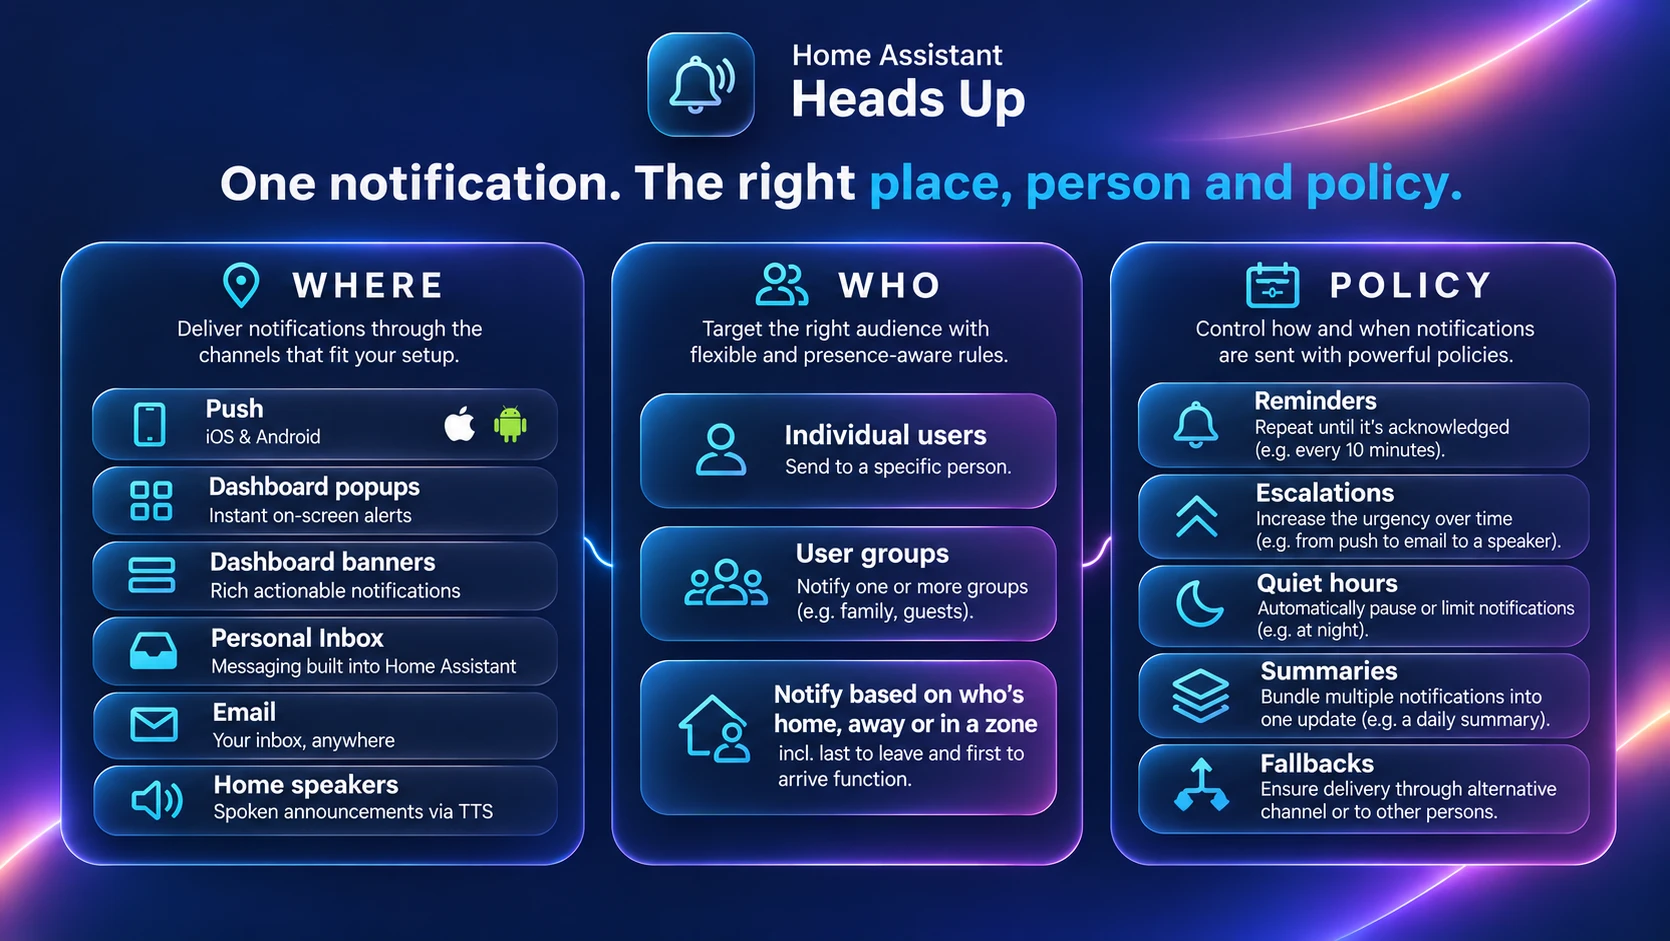
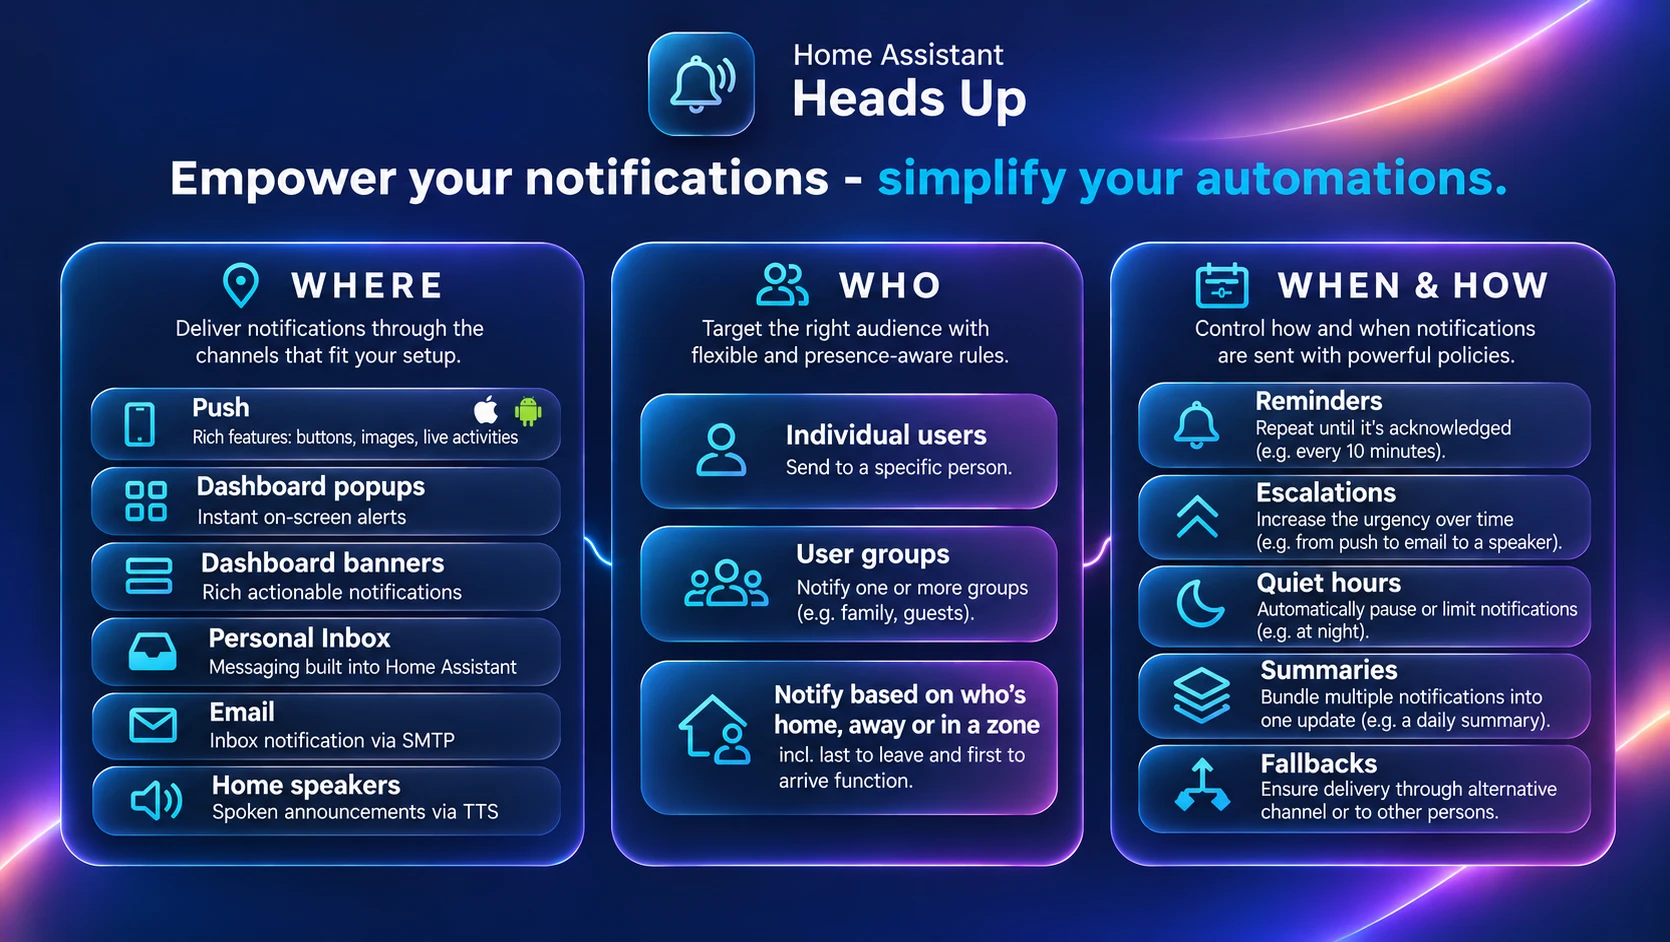
README: new summary picture, channel pictures 10% larger (220 px)

diff --git a/README.md b/README.md
@@ -18,14 +18,14 @@ Heads Up is the notification hub for Home Assistant. Your automation makes one c
 9. **Messages between people.** People write short messages to each other from the inbox card. The recipient's profile and your policies still decide what is delivered, and the sender never learns whether a message was read.
 
 <p align="center">
-<img src="https://raw.githubusercontent.com/Seyphaton/ha-heads-up/main/docs/images/channel-banner.webp" width="200" alt="Banners on a Home Assistant dashboard: a water leak with an Acknowledge link, a garage door warning, a vacuum with a progress bar and an update message, each with a close button">
-<img src="https://raw.githubusercontent.com/Seyphaton/ha-heads-up/main/docs/images/channel-popup.webp" width="200" alt="A Heads Up popup over a Home Assistant dashboard: a warning for Front door, Person detected at 14:32, with a camera picture and the buttons Lights on, Sound alarm and Dismiss">
-<img src="https://raw.githubusercontent.com/Seyphaton/ha-heads-up/main/docs/images/channel-push.webp" width="200" alt="Push on iOS and Android: an iPhone notification for Front door with a camera picture and the buttons Lights on, Sound alarm and Ignore, and a Live Activity for a vacuum at 53 percent">
+<img src="https://raw.githubusercontent.com/Seyphaton/ha-heads-up/main/docs/images/channel-banner.webp" width="220" alt="Banners on a Home Assistant dashboard: a water leak with an Acknowledge link, a garage door warning, a vacuum with a progress bar and an update message, each with a close button">
+<img src="https://raw.githubusercontent.com/Seyphaton/ha-heads-up/main/docs/images/channel-popup.webp" width="220" alt="A Heads Up popup over a Home Assistant dashboard: a warning for Front door, Person detected at 14:32, with a camera picture and the buttons Lights on, Sound alarm and Dismiss">
+<img src="https://raw.githubusercontent.com/Seyphaton/ha-heads-up/main/docs/images/channel-push.webp" width="220" alt="Push on iOS and Android: an iPhone notification for Front door with a camera picture and the buttons Lights on, Sound alarm and Ignore, and a Live Activity for a vacuum at 53 percent">
 </p>
 
 <p align="center">
-<img src="https://raw.githubusercontent.com/Seyphaton/ha-heads-up/main/docs/images/channel-inbox.webp" width="200" alt="The personal inbox card and a ring card: a critical water leak that needs action, a message from Ben with his initial and a garage door warning, with the tabs Inbox and Sent">
-<img src="https://raw.githubusercontent.com/Seyphaton/ha-heads-up/main/docs/images/channel-mail-speech.webp" width="200" alt="Mail and speech: an email about a water leak with an Acknowledge button on a laptop, and a smart speaker saying the same message">
+<img src="https://raw.githubusercontent.com/Seyphaton/ha-heads-up/main/docs/images/channel-inbox.webp" width="220" alt="The personal inbox card and a ring card: a critical water leak that needs action, a message from Ben with his initial and a garage door warning, with the tabs Inbox and Sent">
+<img src="https://raw.githubusercontent.com/Seyphaton/ha-heads-up/main/docs/images/channel-mail-speech.webp" width="220" alt="Mail and speech: an email about a water leak with an Acknowledge button on a laptop, and a smart speaker saying the same message">
 </p>
 
 ## What only Heads Up does
